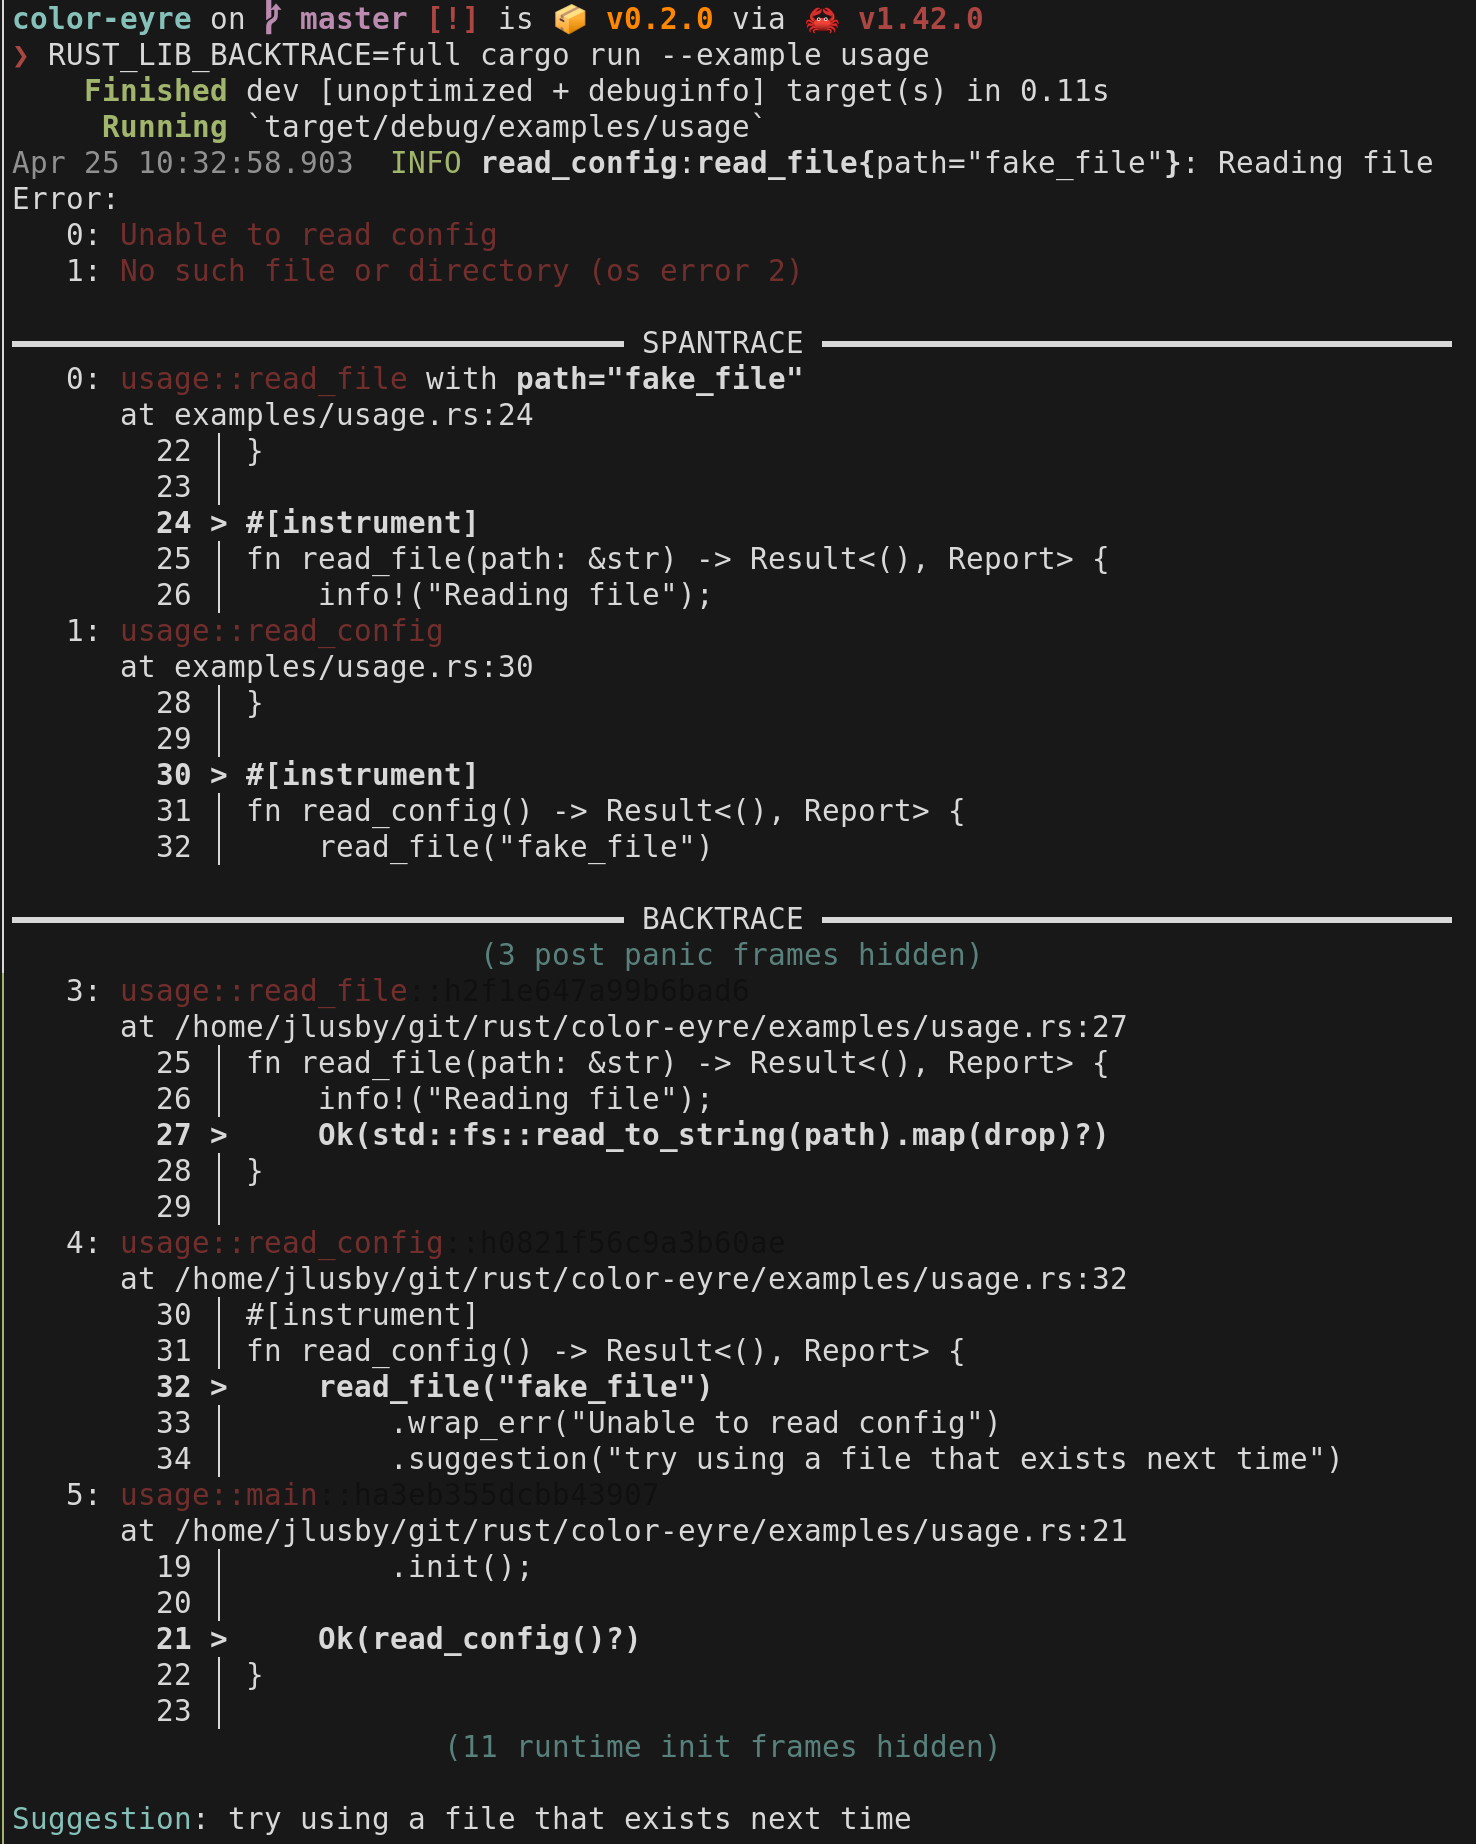
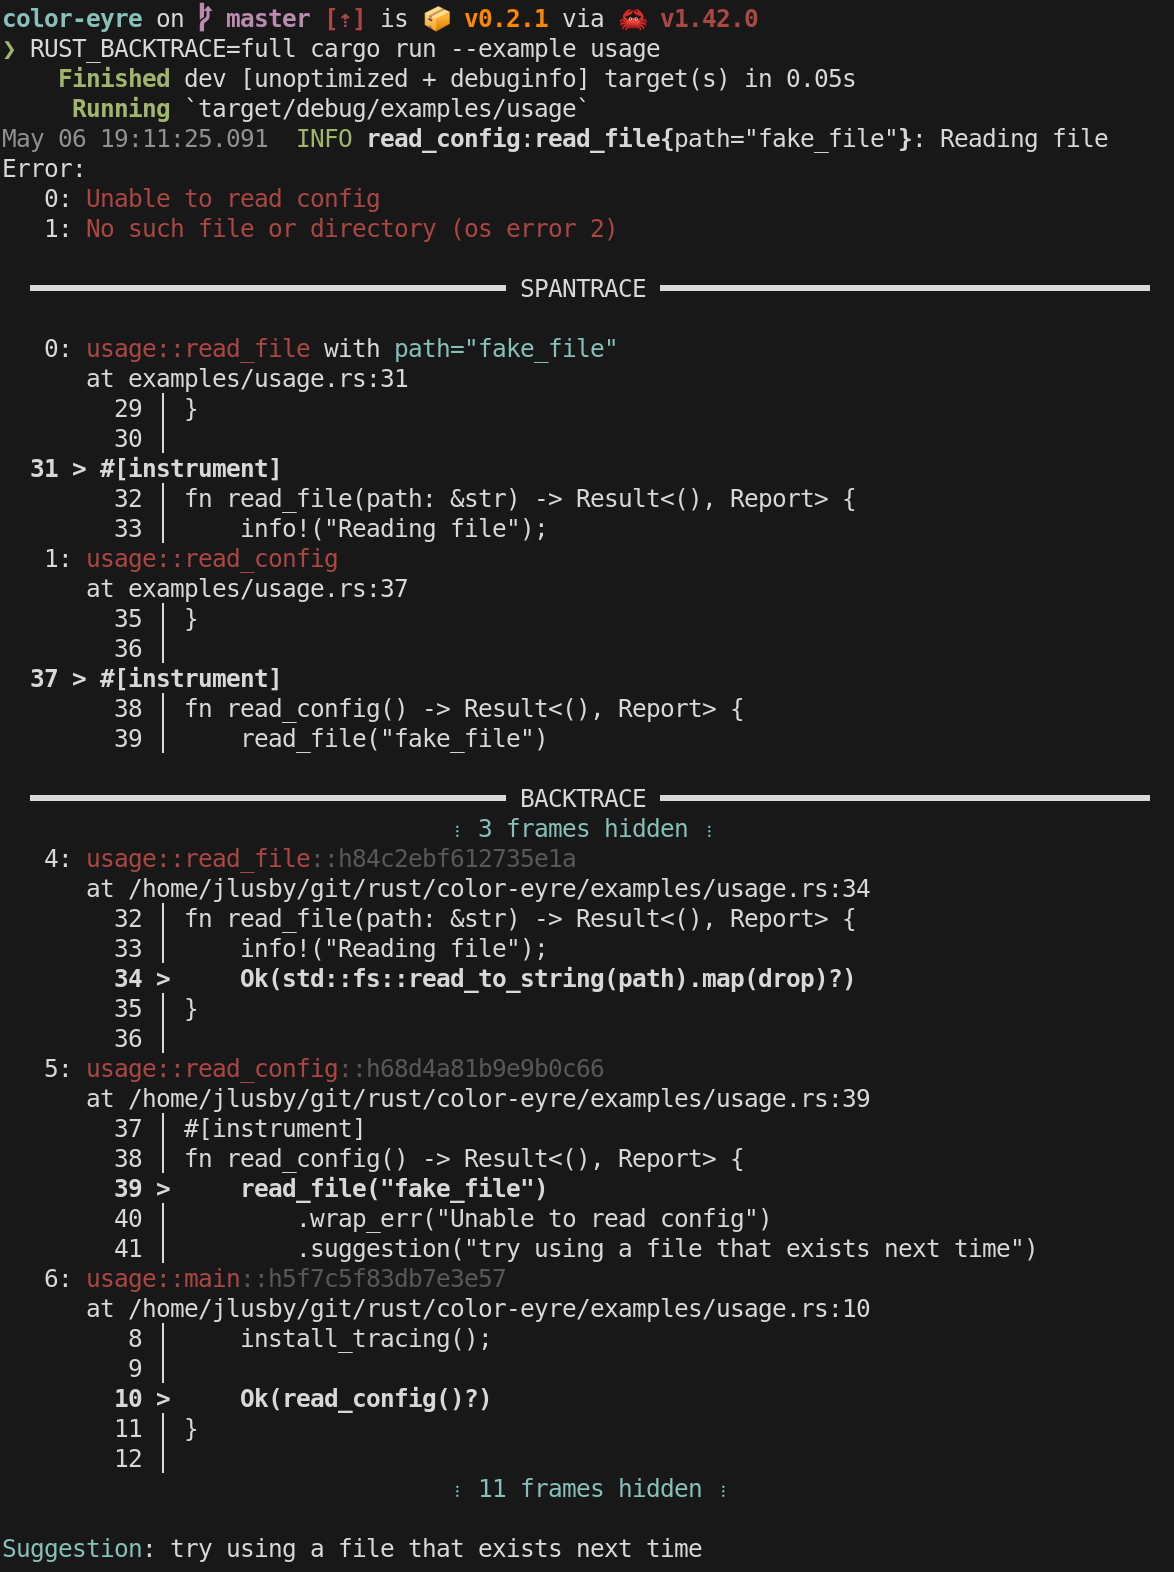
create new release to clean up docs and images (#2)

diff --git a/src/lib.rs b/src/lib.rs
@@ -119,7 +119,7 @@
 //! [`Help`]: trait.Help.html
 //! [`eyre::Report`]: https://docs.rs/eyre/0.3.8/eyre/struct.Report.html
 //! [`eyre::Result`]: https://docs.rs/eyre/0.3.8/eyre/type.Result.html
-#![doc(html_root_url = "https://docs.rs/color-eyre/0.2.0")]
+#![doc(html_root_url = "https://docs.rs/color-eyre/0.2.2")]
 #![warn(
     missing_debug_implementations,
     missing_docs,

diff --git a/README.md b/README.md
@@ -50,7 +50,7 @@ color-eyre = { version = "0.2", default-features = false }
 
 ## Example
 
-```rust,should_panic
+```rust
 use color_eyre::{Help, Report};
 use eyre::WrapErr;
 use tracing::{info, instrument};
